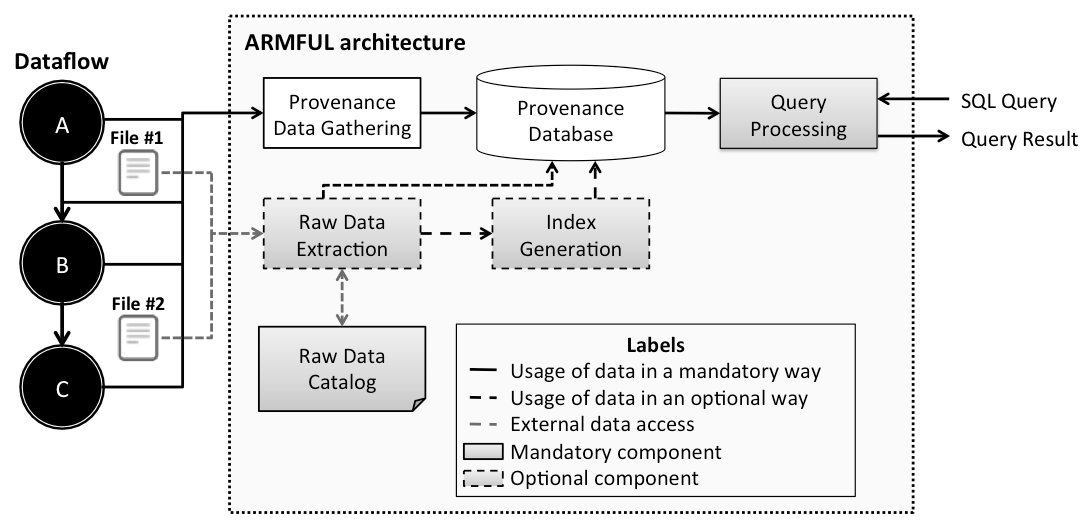
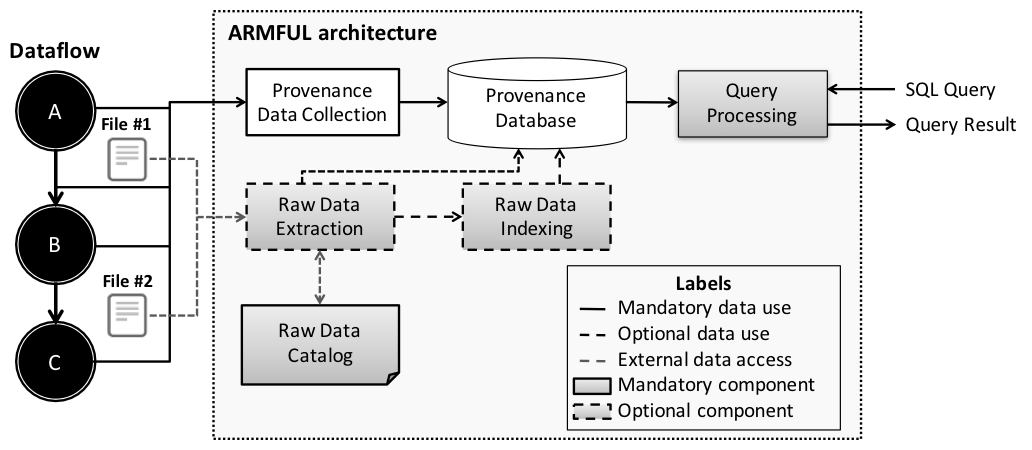
Updating index.html.

diff --git a/index.html b/index.html
@@ -78,7 +78,7 @@ ARMFUL architecture
 Components
 </h3>
   <p>
-  ARMFUL architecture presents the following three components, as presented in Figure 1: <i>Provenance Data Gathering</i>, <i>Raw Data Extraction</i>, and <i>Index Generation</i>. In the same way as Scientific Workflow Management Systems (SWMS) with provenance support, white components correspond to the capture of provenance data and their storage in a provenance database. <i>Provenance Data Gathering</i> component aims at capturing provenance data and execution metadata generated during the parallel execution of scientific workflows, and storing those gathered data in a provenance relational database. The provenance relational database follows a data model that presents the pointers to the raw data files and metadata that represent raw data contents, which should be extracted from files to support raw data analysis.  Our PROV-compliant data model, named as <a href="prov-df.html">PROV-Df</a>, is presented in Figure 2 and more information about it can be found <a href="http://onlinelibrary.wiley.com/doi/10.1002/cpe.3616/abstract" target="_blank">here</a>.
+  ARMFUL architecture presents the following three components, as presented in Figure 1: <i>Provenance Data Collection</i>, <i>Raw Data Extraction</i>, and <i>Index Generation</i>. In the same way as Scientific Workflow Management Systems (SWMS) with provenance support, white components correspond to the capture of provenance data and their storage in a provenance database. <i>Provenance Data Collection</i> component aims at capturing provenance data and execution metadata generated during the parallel execution of scientific applications, and storing those gathered data in a provenance relational database. The provenance relational database follows a data model that presents the pointers to the raw data files and metadata that represent raw data contents, which should be extracted from files to support raw data analysis.  Our PROV-compliant data model, named as <a href="prov-df.html">PROV-Df</a>, is presented in Figure 2 and more information about it can be found <a href="http://onlinelibrary.wiley.com/doi/10.1002/cpe.3616/abstract" target="_blank">here</a>.
   <img src="img/components.png" alt="ARMFUL's components">
   </p>
   <p align="center">
